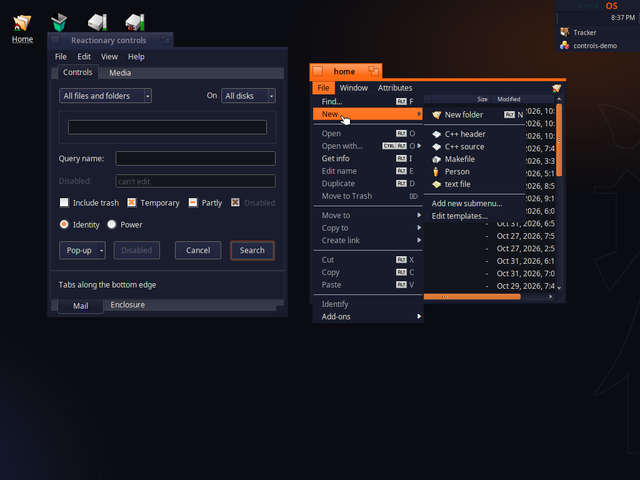
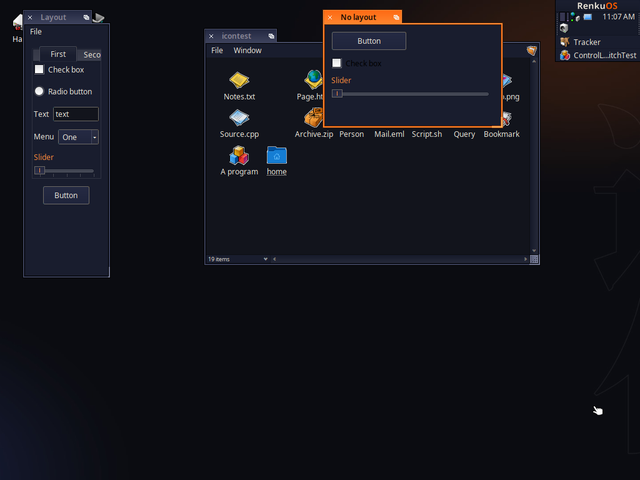
Renku: add a light version
Add Renku Light, with Renku as its dark version, so they share a row with a Mode
menu. It keeps Smoke's window borders and the flat controls, on washi paper with
indigo ink and the same fire orange, using deeper shades where text has to be read
on the paper. The wallpaper script draws its version with --light.

Renku now uses the dark versions of Haiku's icons, and Renku Light Haiku's own.

Claude-Session: https://claude.ai/code/session_01PoWUVQ2Z76RzeEbsFvPvPp

Changed region(s): [[0.0, 0.0, 1.0, 0.6875], [0.9062, 0.8438, 0.9375, 0.875]]

diff --git a/tools/make-renku-wallpaper.py b/tools/make-renku-wallpaper.py
@@ -4,7 +4,10 @@
 orange in the top right, an indigo haze in the bottom left, and 連句
 ("renku") written top to bottom in outline down the right side.
 
-    python3 -I tools/make-renku-wallpaper.py <output.jpg> [width height]
+    python3 -I tools/make-renku-wallpaper.py [--light] <output.jpg> [width height]
+
+--light draws Renku Light's: the same on washi paper, the haze a warmer shade
+of it and the outline in indigo.
 
 Needs PIL and Noto Serif CJK (the outline is drawn with it; only the image
 is kept, not the font).
@@ -19,6 +22,8 @@ NIGHT = (0x0C, 0x0D, 0x12)
 FIRE = (0xFF, 0x6A, 0x13)
 HAZE = (0x1B, 0x21, 0x40)
 WASHI = (0xEF, 0xE9, 0xDD)
+WASHI_2 = (0xDD, 0xD4, 0xC2)
+INDIGO = (0x19, 0x1D, 0x2E)
 
 
 def glow(size, centre, radius, colour, strength, reach):
@@ -50,14 +55,19 @@ def font(size):
 
 
 def main():
-    out = sys.argv[1]
-    w, h = (int(sys.argv[2]), int(sys.argv[3])) if len(sys.argv) > 3 \
-        else (1920, 1080)
+    args = sys.argv[1:]
+    light = "--light" in args
+    if light:
+        args.remove("--light")
+    out = args[0]
+    w, h = (int(args[1]), int(args[2])) if len(args) > 2 else (1920, 1080)
+    paper, haze, ink, weight = (WASHI, WASHI_2, INDIGO, 26) if light \
+        else (NIGHT, HAZE, WASHI, 16)
 
-    image = Image.new("RGB", (w, h), NIGHT)
+    image = Image.new("RGB", (w, h), paper)
     for centre, radius, colour, strength, reach in (
             ((w * 0.8, h * 0.1), (w * 0.62, h * 0.55), FIRE, 0.16, 0.6),
-            ((0, h), (w * 0.47, h * 0.65), HAZE, 0.9, 0.65)):
+            ((0, h), (w * 0.47, h * 0.65), haze, 0.9, 0.65)):
         layer, mask = glow((w, h), centre, radius, colour, strength, reach)
         image.paste(layer, (0, 0), mask)
 
@@ -76,8 +86,8 @@ def main():
             stroke_width=stroke, stroke_fill=255)
         fill_draw.text((x, y + i * size), char, font=face, fill=255)
     outline = ImageChops.subtract(outline, fill)
-    image.paste(Image.new("RGB", (w, h), WASHI), (0, 0),
-        outline.point(lambda v: v * 16 // 255))
+    image.paste(Image.new("RGB", (w, h), ink), (0, 0),
+        outline.point(lambda v: v * weight // 255))
 
     image.save(out, quality=92)
 

diff --git a/README.md b/README.md
@@ -15,7 +15,8 @@ It comes with its own looks:
   with the [ClassicOS 2000](https://github.com/ClassicOS-Themes/ClassicOS-2000-Icons)
   icons;
 - **Smoke** window borders and controls in the style of ZETA's;
-- **Renku**, in the colours of the Renku OS website;
+- **Renku** and **Renku Light**, in the colours of the Renku OS website, with
+  dark and normal Haiku icons;
 - **Haiku Dark**, a black and yellow version of Haiku's look, with dark versions
   of Haiku's own icons;
 - and the Haiku, Gonx and four Flat themes.
@@ -79,11 +80,13 @@ picture at the top is Power Theme itself, under the stock Haiku theme.
 | | |
 |---|---|
 | ![Reactionary ME](docs/screenshots/reactionary-me.png) | ![Renku](docs/screenshots/renku.png) |
-| **Reactionary ME**: Windows ME window borders and controls, and the ClassicOS 2000 icons on folders and file types | **Renku**: Smoke window borders and flat controls in the Renku OS website's colours |
+| **Reactionary ME**: Windows ME window borders and controls, and the ClassicOS 2000 icons on folders and file types | **Renku**: Smoke window borders and flat controls in the Renku OS website's colours, with the dark Haiku icons |
+| ![Renku Light](docs/screenshots/renku-light.png) | ![DarkFlat](docs/screenshots/darkflat.png) |
+| **Renku Light**: the same on washi paper, with Haiku's own icons | **DarkFlat**, from haiku_darkstyle, with Haiku's Flat window borders and controls |
 | ![Smoke](docs/screenshots/smoke.png) | ![Gonx](docs/screenshots/gonx.png) |
 | **Smoke** window borders and controls, in the style of ZETA's, with the colours of the "smoke" Theme Manager theme | **Gonx**: Gonx's window borders and controls |
-| ![DarkFlat](docs/screenshots/darkflat.png) | ![The Power Theme window](docs/screenshots/themes-window.png) |
-| **DarkFlat**, from haiku_darkstyle, with Haiku's Flat window borders and controls | **Power Theme** under Renku: the theme list with a preview, the icon theme, and the parts to apply |
+| ![The Power Theme window](docs/screenshots/themes-window.png) | |
+| **Power Theme** under Renku: the theme list with a preview, the icon theme, and the parts to apply | |
 
 ![Build add-ons](docs/screenshots/build-add-ons.png)
 
@@ -247,8 +250,8 @@ click **Build add-ons…** again.
 - **Light and dark versions**: two themes are versions of the same one if their
   `theme.settings` say so, with `variant of = Flat` and `mode = dark` (or
   `light`). Each stays a complete theme in its own folder. **Flat** (LightFlat
-  and DarkFlat), **Haiku** (Haiku and Haiku Dark) and **Reactionary ME**
-  (with Reactionary ME Dark) come this way; other themes stay as they are until
+  and DarkFlat), **Haiku** (Haiku and Haiku Dark), **Renku** (Renku Light and Renku)
+  and **Reactionary ME** (with Reactionary ME Dark) come this way; other themes stay as they are until
   they have both. `powertheme --mode=dark` switches the theme in use, keeping
   the parts it was applied with.
 - **Light and dark icons**: each version of a theme has its own icons: what its
